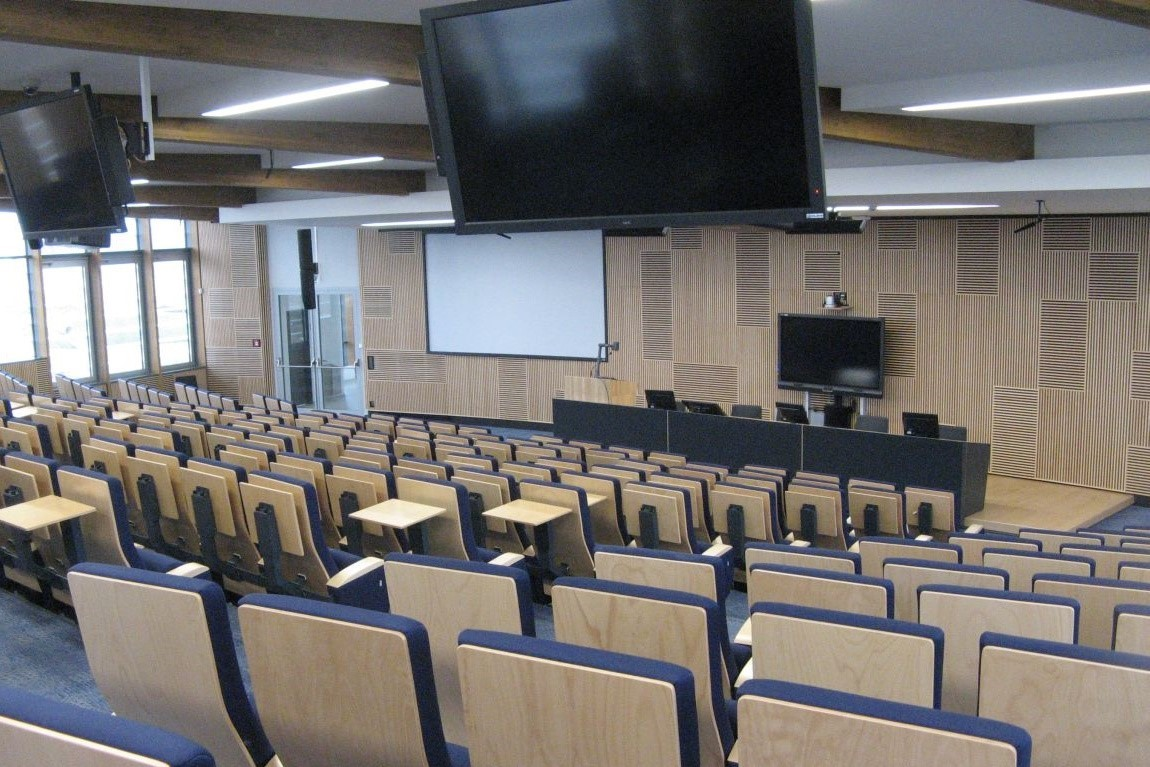
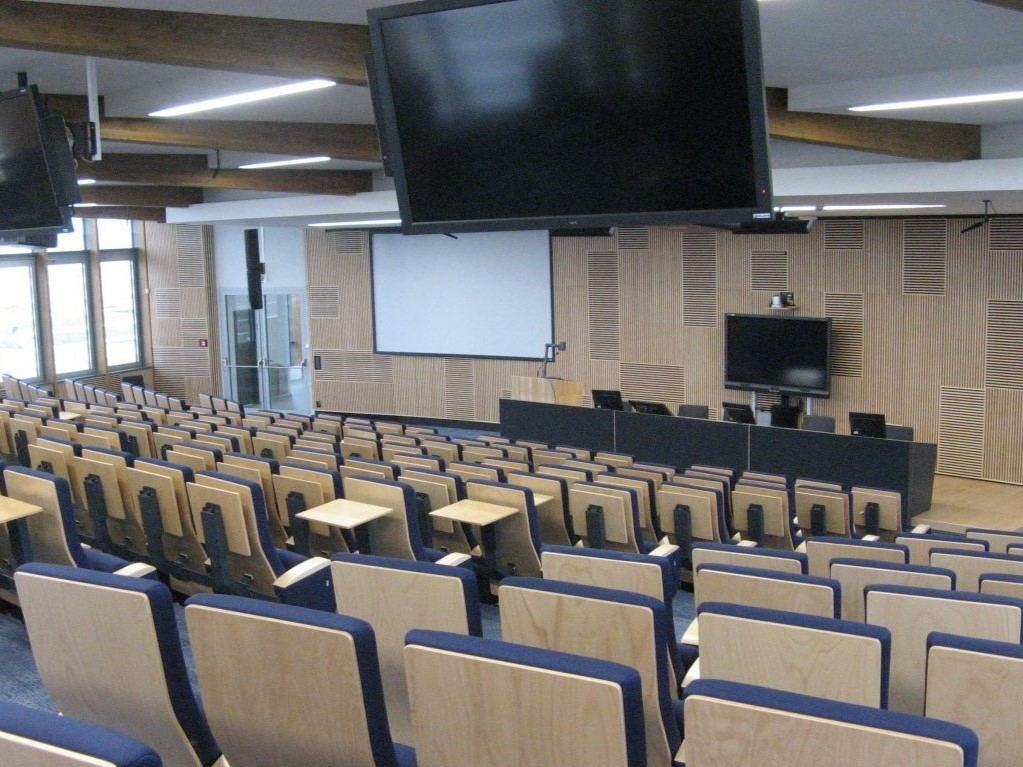
fixed slider

diff --git a/index.html b/index.html
@@ -81,7 +81,7 @@
 													</div>
 												</div>
 												<div class="col-md-7">
-													<div class="slider_image full text_align_center"><img alt="#" class="img-responsive" src="images/index_fav.jpeg"></div>
+													<div class="slider_image full text_align_center"><img alt="#" class="img-responsive" src="images/index_fav.jpg"></div>
 												</div>
 											</div>
 										</div>
